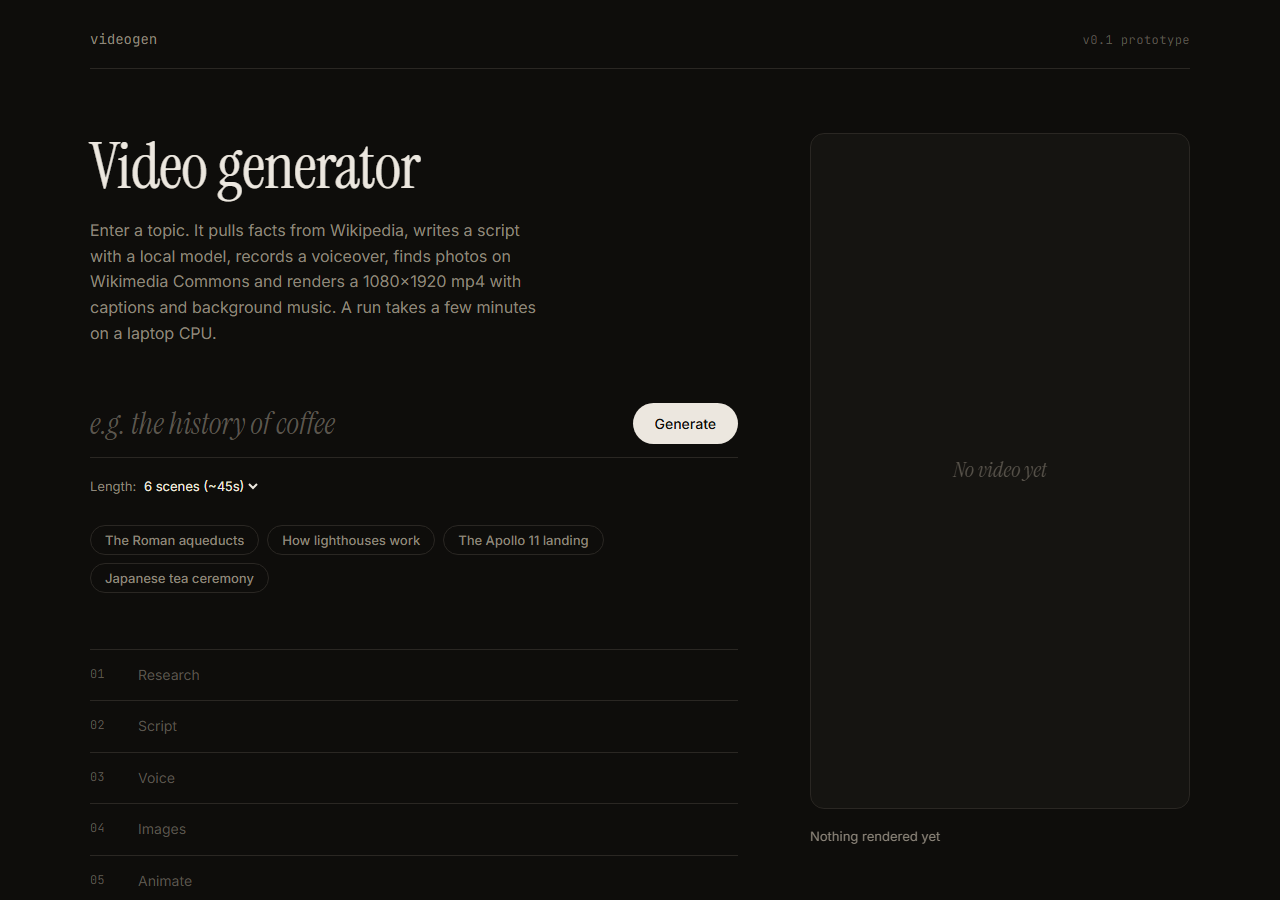
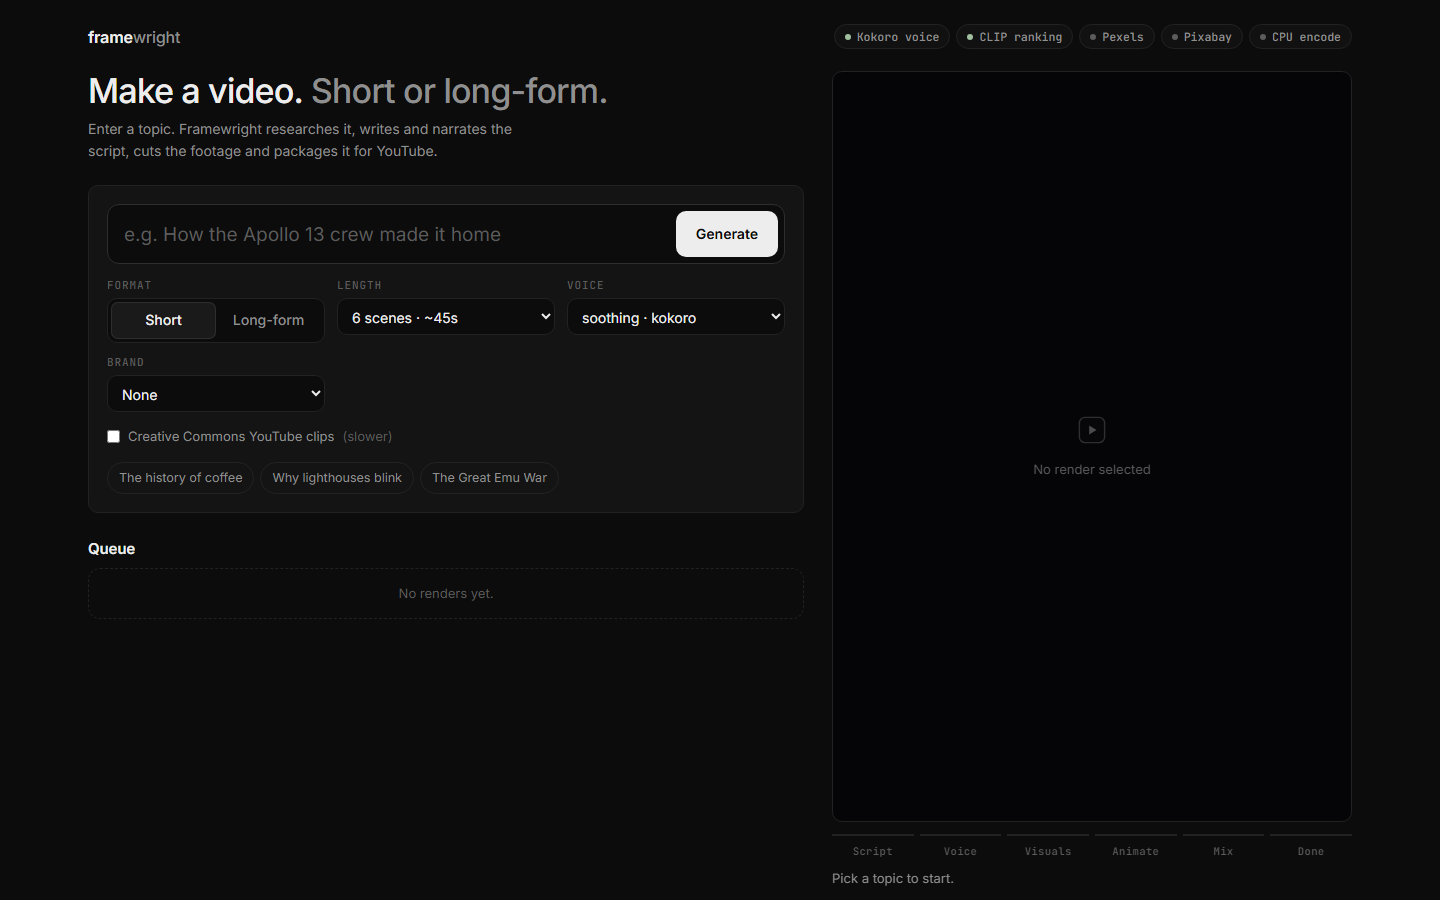
UI screenshot

diff --git a/README.md b/README.md
@@ -15,6 +15,8 @@ Free and local: no API bills, no watermark, your machine.</p>
 
 ---
 
+<p align="center"><img src="docs/img/ui.png" alt="Framewright UI" width="860"></p>
+
 ## What it makes
 
 | | **Short** | **Long-form** |
